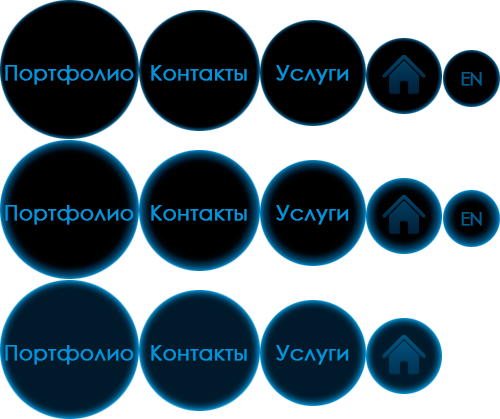
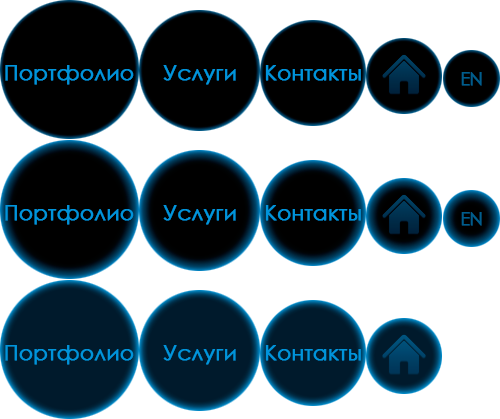
test

Changed region(s): [[0.3, 0.8067, 0.72, 0.8687], [0.3, 0.1551, 0.72, 0.2172], [0.3, 0.4654, 0.72, 0.5274]]

diff --git a/contact.html b/contact.html
@@ -27,8 +27,8 @@
 	
 		<ul id="MainMenu">
 			<li class="portfolio"><a href="portfolio.html">Портфолио</a></li>
-			<li class="contact"><a class="selected" href="contact.html">Контакты</a></li>
-			<li class="services"><a href="services.html">Услуги</a></li>
+			<li class="contact"><a href="services.html">Услуги</a></li>
+			<li class="services"><a class="selected" href="contact.html">Контакты</a></li>
 			<li class="main"><a href="index.html">Главная</a></li>
 			<li class="localization"><a href="">Локализация</a></li>
 		</ul>

diff --git a/services.html b/services.html
@@ -27,8 +27,8 @@
 	
 		<ul id="MainMenu">
 			<li class="portfolio"><a href="portfolio.html">Портфолио</a></li>
-			<li class="contact"><a href="contact.html">Контакты</a></li>
-			<li class="services"><a class="selected" href="services.html">Услуги</a></li>
+			<li class="contact"><a class="selected" href="services.html">Услуги</a></li>
+			<li class="services"><a href="contact.html">Контакты</a></li>
 			<li class="main"><a href="index.html">Главная</a></li>
 			<li class="localization"><a href="">Локализация</a></li>
 		</ul>

diff --git a/portfolio.html b/portfolio.html
@@ -27,8 +27,8 @@
 	
 		<ul id="MainMenu">
 			<li class="portfolio"><a class="selected" href="portfolio.html">Портфолио</a></li>
-			<li class="contact"><a href="contact.html">Контакты</a></li>
-			<li class="services"><a href="services.html">Услуги</a></li>
+			<li class="contact"><a href="services.html"></a>Услуги</li>
+			<li class="services"><a href="contact.html">Контакты</a></li>
 			<li class="main"><a href="index.html">Главная</a></li>
 			<li class="localization"><a href="">Локализация</a></li>
 		</ul>
